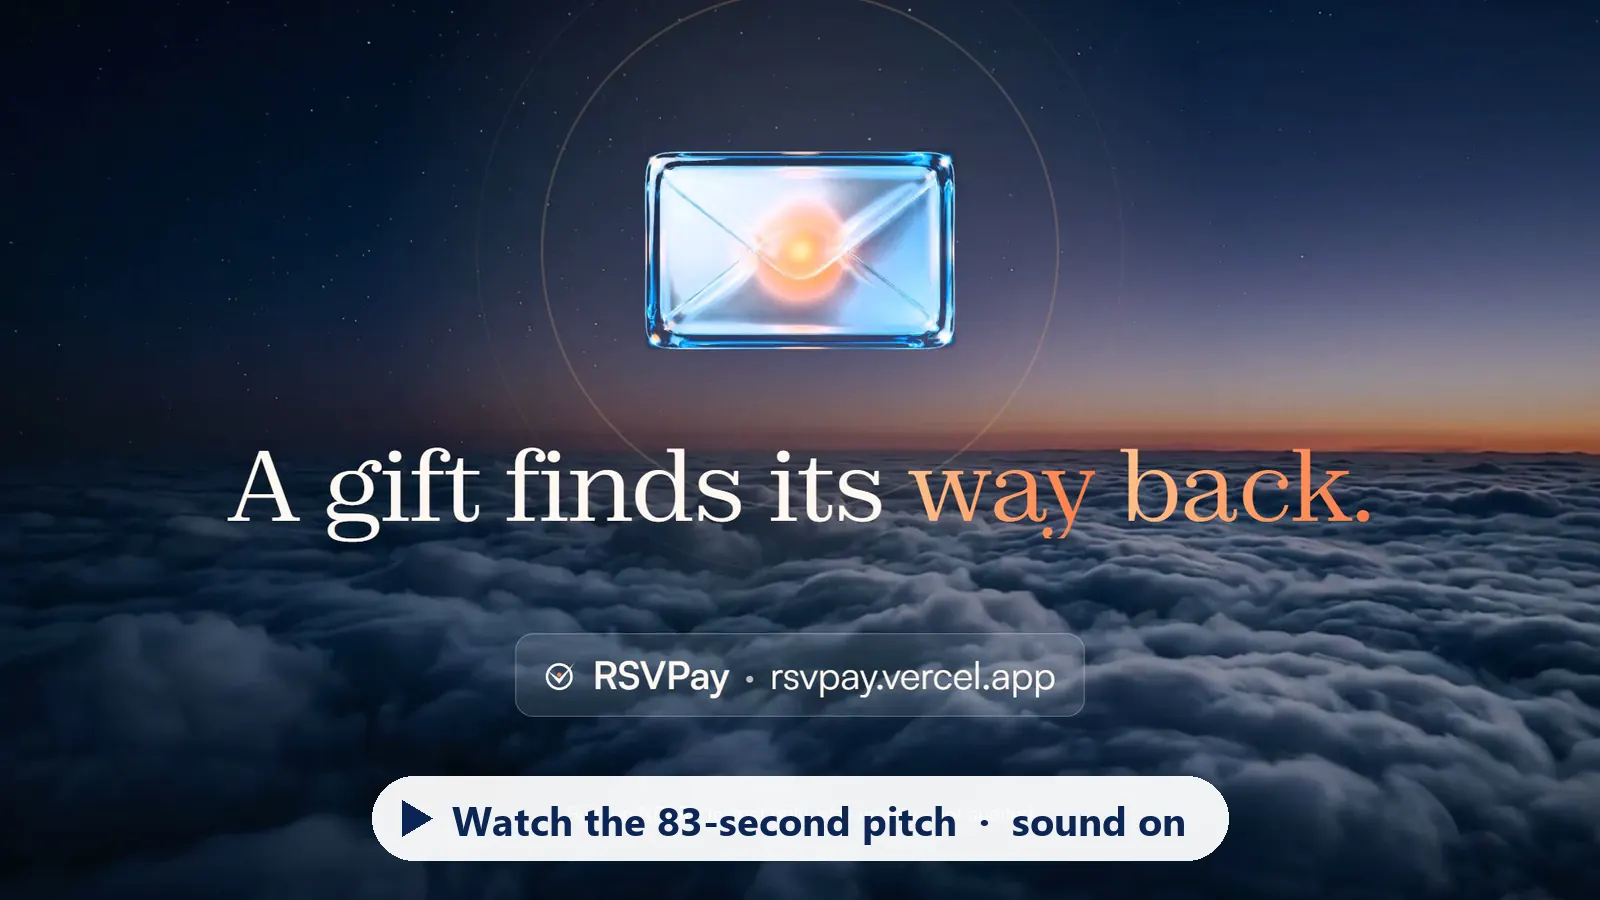
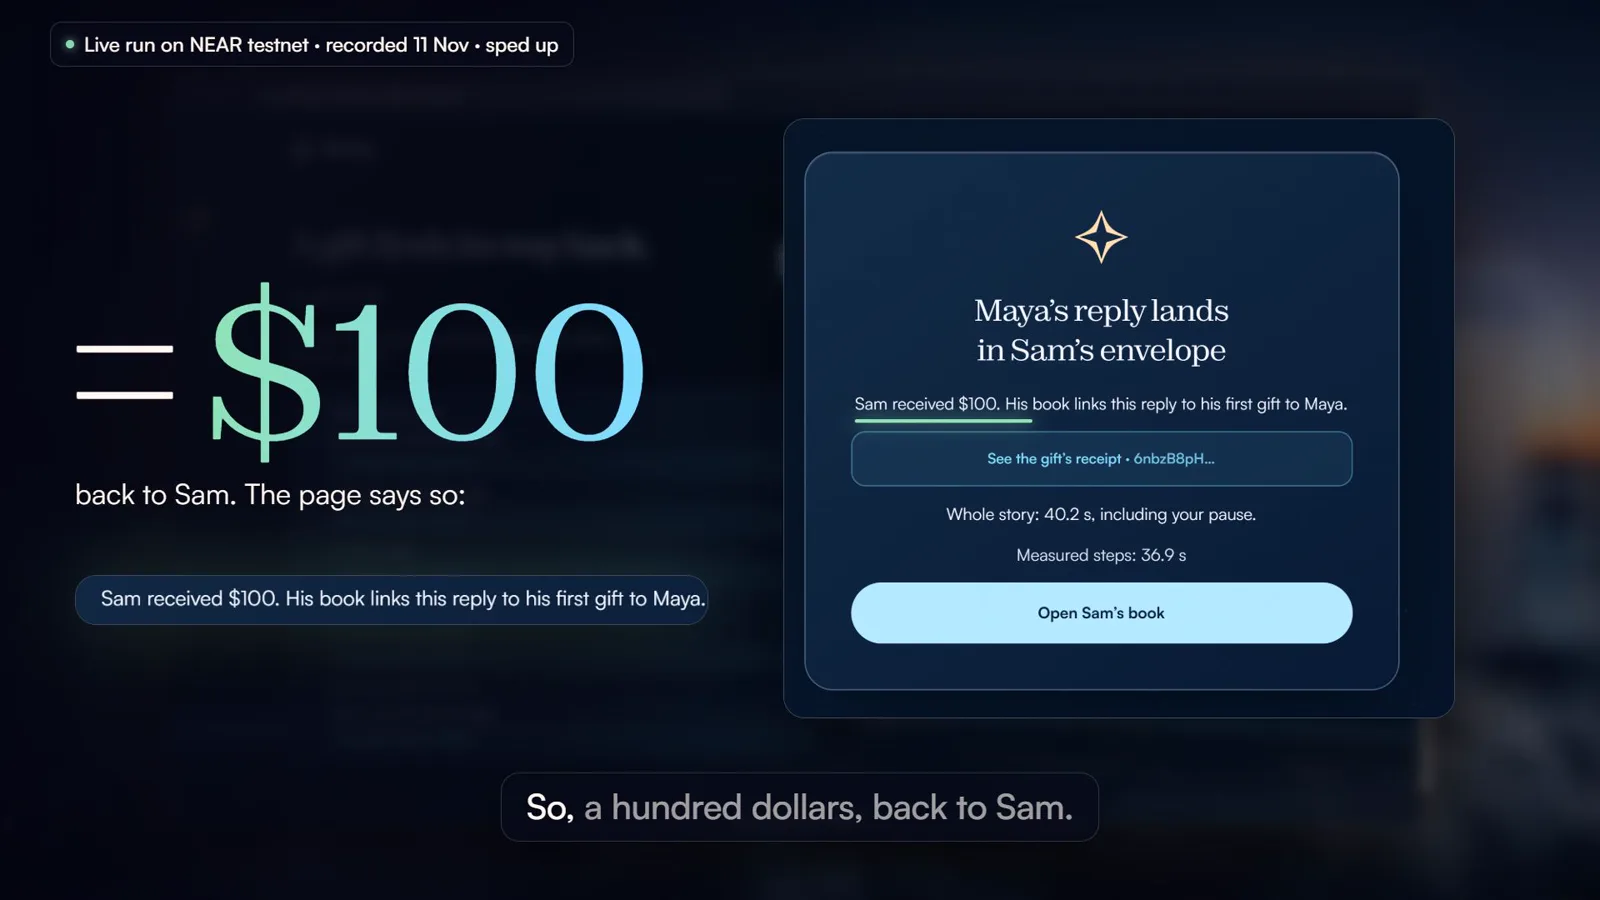
Video pitch v2 dipasang: 1 menit 54 detik dengan suara Dex, rekaman live 11 Nov ($100, 40,2 s); poster baru, dua log rekaman di docs/evidence, README tanpa kalimat $99 dan suara sintetis

diff --git a/README.md b/README.md
@@ -8,7 +8,7 @@
 
 [![CI](https://github.com/Stylenexy/rsvpay/actions/workflows/ci.yml/badge.svg)](https://github.com/Stylenexy/rsvpay/actions/workflows/ci.yml) [![Sandbox](https://github.com/Stylenexy/rsvpay/actions/workflows/sandbox.yml/badge.svg)](https://github.com/Stylenexy/rsvpay/actions/workflows/sandbox.yml) [![License: MIT](https://img.shields.io/badge/license-MIT-blue)](LICENSE) [![Network](https://img.shields.io/badge/NEAR-testnet-00BFFF)](https://testnet.nearblocks.io/address/rsvpay-v2.testnet) ![Access keys](https://img.shields.io/badge/access%20keys-0-2ea44f) ![Live attacks](https://img.shields.io/badge/live%20attacks-14%2F14%20refused-2ea44f)
 
-**[Try the whole story, about 40 s on testnet](https://rsvpay.xyz/#/coba)** · **[Open the site](https://rsvpay.xyz)** · **[Watch the 83-second pitch](https://rsvpay.xyz/media/rsvpay-pitch.mp4)**
+**[Try the whole story, about 40 s on testnet](https://rsvpay.xyz/#/coba)** · **[Open the site](https://rsvpay.xyz)** · **[Watch the pitch, 1 min 54 s](https://rsvpay.xyz/media/rsvpay-pitch.mp4)**
 
 </div>
 
@@ -27,9 +27,9 @@ One button on the site runs the whole story on the real network: two families, o
 3. **Two years pass.**
 4. **Sam opens his own celebration, and Maya's envelope rings:** *"Sam once gave $100. $5 was kept for this day. Add $95 and send your reply."*
 5. **One tap** sends the $5 plus Maya's $95 into Sam's envelope, as a new gift linked to the old one.
-6. **39.2 seconds** for the recorded run in the video ([its log](docs/evidence/video-run-log.txt)); five live runs on today's contract took 34.8 s to 41.8 s ([runs](docs/evidence/coba-e2e-runs.txt)).
+6. **40.2 seconds** for the run recorded in the video, as the page itself counted it ([its log](docs/evidence/video-run-log-v2.txt)); five live runs on today's contract took 34.8 s to 41.8 s ([runs](docs/evidence/coba-e2e-runs.txt)).
 
-The frames above are from the run recorded on 9 November. Its own screen says 37.5 s because the page's timer starts once the page has loaded; 39.2 s counts from opening the address. That run's reply also landed one dollar short, "Sam received $99": the reply's storage, 210 bytes, was ten bytes more than the page attached for it. Since 11 November the page counts that storage exactly and the reply lands as the $100 the ring named ([check](docs/evidence/reply-amount-check.txt)). The video still shows the 9 November run.
+The frames above are from an earlier run, recorded on 9 November ([its log](docs/evidence/video-run-log.txt)). Its own screen says 37.5 s because the page's timer starts once the page has loaded; 39.2 s counts from opening the address. That run's reply also landed one dollar short, "Sam received $99": the reply's storage, 210 bytes, was ten bytes more than the page attached for it. Since 11 November the page counts that storage exactly and the reply lands as the $100 the ring named ([check](docs/evidence/reply-amount-check.txt)). The pitch video was recorded again on 11 November and shows the reply landing as $100.
 
 <table>
 <tr>
@@ -48,7 +48,7 @@ The frames above are from the run recorded on 9 November. Its own screen says 37
 
 <div align="center">
 
-<a href="https://rsvpay.xyz/media/rsvpay-pitch.mp4"><img src="docs/img/video-poster.webp" width="80%" alt="Watch the 83-second pitch, sound on"></a>
+<a href="https://rsvpay.xyz/media/rsvpay-pitch.mp4"><img src="docs/img/video-poster.webp" width="80%" alt="Watch the pitch, 1 min 54 s, sound on"></a>
 
 </div>
 
@@ -302,7 +302,7 @@ There is no `backend/` on purpose; see [Architecture](docs/ARCHITECTURE.md). See
 - Web: React 19, Vite 8, TypeScript, `near-api-js` 7.4.0, `qrcode`, `three`, GSAP. App display and body fonts: Zodiak and Satoshi; the landing also loads Figtree and DM Mono from Google Fonts.
 - Tests: `cargo test`, Vitest, `playwright-core` driving an installed Chrome.
 - Testnet RPC: FastNEAR. Accounts: NEAR testnet helper. Hosting: Vercel.
-- AI: code and documentation were written with AI coding assistants (Claude Code, OpenAI Codex), and several AI chat assistants were consulted when choosing the idea. The landing page sky video comes from Google Flow (Veo). Photographs, envelopes, clouds and glass objects were generated with OpenAI image generation. The pitch video's narration is a synthetic voice (a Microsoft neural voice through `edge-tts`), its music is synthesised in code; the screen recordings in it are of the live site. The images in `docs/img/` are frames of that video. Listed here as the hackathon rules ask. Test counts and attack results in this README come from the commands above.
+- AI: code and documentation were written with AI coding assistants (Claude Code, OpenAI Codex), and several AI chat assistants were consulted when choosing the idea. The landing page sky video comes from Google Flow (Veo). Photographs, envelopes, clouds and glass objects were generated with OpenAI image generation. The pitch video's narration is Dex's own voice. Its music is synthesised in code, and its sound effects are ElevenLabs Sound Effects clips from a friend's video kit. The people in its photographs were generated with OpenAI image generation; the QR in them is the site's real `#/beri/3` code. Its screen recordings are of the live site. The images in `docs/img/` are frames of the site and of the pitch videos. Listed here as the hackathon rules ask. Test counts and attack results in this README come from the commands above.
 
 ## Team
 

diff --git a/docs/evidence/README.md b/docs/evidence/README.md
@@ -12,7 +12,9 @@ Reports from real runs. Each one can be reproduced with the command beside it (s
 | `transfer-checks-report.txt` | A stranger cannot move an envelope, a refused transfer leaves no lock, the resolver's gas on its heaviest path, a payout made to fail on chain | `cd scripts && node transfer-checks.mjs` |
 | `sandbox-run.txt` | The attack scripts on a local chain in CI, against the wasm built from the commit: 14 attacks, 21 hold checks, 6 transfer lines | workflow *Sandbox*, every push |
 | `reply-amount-check.txt` | Why a reply landed as $99 until 11 November, the storage measured on chain, and the run after the fix | `cd frontend && node e2e/coba.e2e.mjs https://rsvpay.vercel.app` |
-| `video-run-log.txt` | Timings of the one-button story as recorded for the pitch video: 39.18 s | recording log, 9 November |
+| `video-run-log.txt` | Timings of the one-button story as first recorded for the pitch video: 39.18 s | recording log, 9 November |
+| `video-run-log-v2.txt` | The run in the current pitch video: the page counts 40.2 s, the reply lands as $100 | recording log, 11 November |
+| `pass-on-run-log.txt` | Two guests give from a phone (17.2 s and 19.2 s), then an envelope is passed on with the site's button | recording log, 11 November |
 | `scale-report.txt` | `pending_replies` on books of up to 300 gifts, and where the RPC view limit sits | `cd scripts && node scale.mjs` |
 | `spare-balance-report.txt` | Contract balance against storage plus what every amplop holds, read at one block | `cd scripts && REPORT=1 node spare.mjs` |
 | `phone-check-report.txt` | 96 checks on three phone sizes, two languages | `cd frontend && node e2e/hp.e2e.mjs https://rsvpay.vercel.app` |

diff --git a/CHANGELOG.md b/CHANGELOG.md
@@ -5,6 +5,7 @@ What changed, by day. The project started on 3 November 2026. Commit messages ar
 ## 2026-11-12
 
 ### Changed
+- The pitch video is the second cut: 1 min 54 s, narrated in Dex's own voice, its screen recordings taken again on the live site on 11 November (the reply lands as $100, the page counts 40.2 s). New poster frame, two recording logs in `docs/evidence/` (`video-run-log-v2.txt`, `pass-on-run-log.txt`), and the README no longer says the video shows $99 or uses a synthetic voice.
 - The site's own address is now https://rsvpay.xyz: link previews (`og:url`, the preview image), a canonical link, the README links and the note inside a saved key file. https://rsvpay.vercel.app is the same deployment and keeps working, and the reports in `docs/evidence/` keep the address they ran against.
 
 ## 2026-11-11
